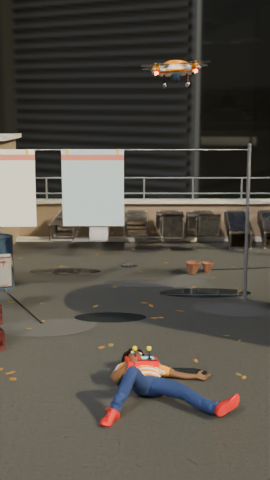
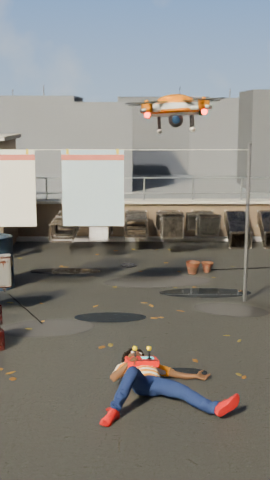
ep019: revisión Director PASA; listo para render local
Claude-Session: https://claude.ai/code/session_01LrSQNzCqj6aM3qn1tHEPiB

diff --git a/anim/episodes/ep019.py b/anim/episodes/ep019.py
@@ -27,7 +27,8 @@ CUSTOM_CAMERA = True
 LABEL_STYLE = "big"
 
 TANK = (3.0, 1.8)                  # centro del depósito de agua (radio 1,0; cara -x en x = 1,94)
-HOVER = Vector((0.15, 0.2, 2.8))   # el dron zumba aquí (centro del cuerpo)
+HOVER = Vector((0.15, 0.2, 2.4))   # el dron zumba aquí (centro del cuerpo)
+DS = 1.45                          # escala del dron: ~1 m de envergadura
 CW, CD, CH = 0.36, 0.07, 0.22      # mando: ancho, fondo, alto (m): exagerado (pedido ~25 x 15) para leerse en plano medio en vertical
 CAM_Y, CAM_Z, TGT_Z = -7.0, 3.1, 1.75     # plano medio: personaje ~34 % del alto, pies al ~17 %, cabeza al ~50 %
 
@@ -139,7 +140,7 @@ def audit_floor(S, a, tag, f0, f1, step=2):
 
 
 # ------------------------------------------------------------------ escenario
-def stage(S, N, gust=None, rot_deg=0):
+def stage(S, N, gust=None, rot_deg=90):
     """Azotea + sábanas ondeando (gust(f) -> 0..1 las agita) + zumbido continuo del dron."""
     E = env_real.build_rooftop(S, rot_deg=rot_deg, tank=TANK, focus=7.1)
     for f in range(1, N + 14, 2):
@@ -155,7 +156,7 @@ def build_drone(S):
     """Dron de primitivas (~70 cm): cuerpo blanco con cúpula naranja, 4 brazos, 4 hélices con disco difuminado, cámara, patines y luces."""
     wh = mmat(S, "dron_blanco", (0.95, 0.95, 0.93), 0.35); org = mmat(S, "dron_naranja", (1.0, 0.38, 0.02), 0.35); drk = mmat(S, "dron_gris", (0.07, 0.07, 0.08), 0.4, 0.3)
     disc = mmat(S, "dron_disco", (0.55, 0.58, 0.62), 0.6, alpha=0.22)
-    D_ = S.empty("dron", tuple(HOVER))
+    D_ = S.empty("dron", tuple(HOVER)); D_.scale = (DS, DS, DS)
     O(S, "cylinder", "d_cuerpo", wh, (0, 0, 0), (0.17, 0.17, 0.045), parent=D_, vertices=32)
     O(S, "uv_sphere", "d_cupula", org, (0, 0, 0.035), (0.15, 0.15, 0.075), parent=D_, segments=24, ring_count=12)
     O(S, "cylinder", "d_cinta", org, (0, 0, -0.012), (0.176, 0.176, 0.014), parent=D_, vertices=32)
@@ -424,7 +425,7 @@ def l3(S):
     S.f = N; a.verify(S.f)
     faces(a, [(1, "neutra", 1.0), (20, "enfado", 0.6), (f_h - 4, "enfado", 1.0), (f_h + 2, "sorpresa", 1.0)], N, first_blink=12, every=30)
     D_, props, leds = build_drone(S)
-    d0 = Vector((xf - 1.0, y0 - 0.3, 3.7))
+    d0 = Vector((xf - 1.0, y0 - 0.3, 3.3))
     def dpos(f):
         p = d0.copy(); p.x += 0.25 * math.sin(0.03 * f)
         t = (f - (f_h + 2)) / 20.0                                      # pica hasta casi rozarle la cabeza (apenas a un lado) y sube
@@ -468,13 +469,13 @@ def l4(S):
         """Punto de agarre en el mundo (centro del patín)."""
         k = sstep((f - f_dr) / float(f_r - f_dr)); k = min(1.0, max(0.0, k))
         x = lerp(x0, x_end, k) + (0.0); y = lerp(y0, y_end, k)
-        zlow = hl.z + 0.045
-        z = HOVER.z - 0.14 if f <= f_g - 3 else lerp(HOVER.z - 0.14, zlow, sstep((f - (f_g - 3)) / float(f_dr - f_g + 3)))
+        zlow = hl.z + 0.42
+        z = HOVER.z - 0.22 if f <= f_g - 3 else lerp(HOVER.z - 0.22, zlow, sstep((f - (f_g - 3)) / float(f_dr - f_g + 3)))
         if f > f_dr: z += 0.025 * math.sin(0.9 * (f - f_dr)) * (1 - sstep((f - f_r + 8) / 8.0))
         return Vector((x, y, z))
     def hang_M(f):
         env = sstep((f - f_dr) / 12.0) * (1 - sstep((f - f_r + 10) / 10.0))
-        th = -12.0 * env * (0.6 + 0.4 * math.sin(0.35 * (f - f_dr)))
+        th = -24.0 * env * (0.6 + 0.4 * math.sin(0.35 * (f - f_dr)))
         yaw = -10.0 + 12.0 * math.sin(0.22 * (f - f_dr)) * env
         return Tm(Gp(f)) @ Ry(th) @ Rz(yaw) @ Tm(-hl)
     def arc_h(f): return 0.62 * math.sin(0.5 * math.pi * max(0.0, min(1.0, (f + 6) / float(f_g + 6))))        # ya en el aire en el fotograma 1
@@ -488,9 +489,9 @@ def l4(S):
             key_M(S, a, f, Tm(A_.to_translation().lerp(B_.to_translation(), t)) @ q.to_matrix().to_4x4())
         elif f <= f_r: key_M(S, a, f, hang_M(f))
         else:
-            Mh = hang_M(f_r); pos = Mh.to_translation(); pos.z = 0.0
+            Mh = hang_M(f_r); pos = Mh.to_translation(); pos.z = max(0.0, pos.z * (1 - ((f - f_r) / 6.0) ** 2))
             key_M(S, a, f, Tm(pos) @ Rz(D(Mh.to_euler("XYZ").z)))
-    pin_feet(S, a, f_dr, N + 11, lambda f: 0.0)                         # arrastra los pies por el suelo (el clip sube la cadera) y luego de pie
+    pin_feet(S, a, f_r + 8, N + 11, lambda f: 0.0)                      # colgado con los pies en el aire (0,4 m); al soltar cae y se ríe
     sm = sample(S, a, N + 10)
     S.cue("huh", f_t - 4, vol=-8); S.cue("boing", f_t, vol=-8); S.cue("pop", f_g, vol=-6); S.cue("whoosh", f_g + 2, vol=-6); S.cue("slide_down", f_dr, vol=-9)
     for f in (f_dr + 10, f_dr + 24, f_dr + 38): S.cue("creak", f, vol=-12)
@@ -500,7 +501,7 @@ def l4(S):
     faces(a, [(1, "enfado", 0.6), (f_t, "feliz", 0.8), (f_g, "sorpresa", 0.7), (f_dr + 8, "sorpresa", 1.0), (f_r - 6, "neutra", 0.6), (f_r + 4, "feliz", 1.0)], N, first_blink=14, every=40)
     D_, props, leds = build_drone(S)
     def dpos(f):
-        g = Gp(f); p = g + Vector((-0.12, 0, 0.14))
+        g = Gp(f); p = g + Vector((-0.17, 0, 0.22))
         if f > f_r: p.z += 0.9 * sstep((f - f_r) / 22.0) + 0.0; p.x += -0.5 * sstep((f - f_r) / 22.0)
         return p
     def dtilt(f):
@@ -558,7 +559,7 @@ def l5(S):
           first_blink=18, every=48)
     D_, props, leds = build_drone(S)
     hov = HOVER.copy(); hov.x = 0.1
-    def hands(f): return (sm[f]["rh"] + sm[f]["lh"]) * 0.5 + Vector((0, 0, 0.17))
+    def hands(f): return (sm[f]["rh"] + sm[f]["lh"]) * 0.5 + Vector((0, 0, 0.25))
     def dpos(f):
         p = hov.copy(); p.x += 0.3 * math.sin(0.025 * f)
         if f_press <= f < f_up:

diff --git a/anim/env_real.py b/anim/env_real.py
@@ -270,7 +270,7 @@ ROOFTOP_PROPS = [
 ]
 
 
-def build_rooftop(S, rot_deg=0, sun_energy=2.2, tank=(3.0, 1.8), focus=7.2):
+def build_rooftop(S, rot_deg=90, sun_energy=3.0, tank=(3.0, 1.8), focus=7.2):
     """Azotea urbana muy producida: HDRI rooftop_day, suelo de hormigón desgastado PBR (losa finita con parapeto y barandilla), 15 piezas de
     atrezo de Poly Haven (CC0) en primer plano, medio y fondo, depósito de agua de madera de primitivas (con escalera de peldaños en su cara
     -x, para trepar), caseta de acceso, antenas, tendedero con sábanas, charcos, hojas, sumidero y parches de brea; profundidad por DOF.
@@ -280,12 +280,35 @@ def build_rooftop(S, rot_deg=0, sun_energy=2.2, tank=(3.0, 1.8), focus=7.2):
         if o.name.startswith("sun") or o is S.cam or o is S.tgt: continue
         bpy.data.objects.remove(o, do_unlink=True)
     _hdri(S, name="rooftop_day", strength=1.0, rot_deg=rot_deg)
+    # el HDRI es un aparcamiento nublado: la luz y los reflejos son suyos, pero a la cámara se le muestra un cielo azul de día (cúpula que solo
+    # existe para los rayos de cámara), un skyline de edificios lejanos (primitivas) y el vacío de la calle bajo el parapeto
+    sk = bpy.data.materials.new("az_cielo"); sk.use_nodes = True; nt = sk.node_tree; N_, L_ = nt.nodes, nt.links
+    for n_ in list(N_): N_.remove(n_)
+    out = N_.new("ShaderNodeOutputMaterial"); mix = N_.new("ShaderNodeMixShader"); tr = N_.new("ShaderNodeBsdfTransparent"); em = N_.new("ShaderNodeEmission")
+    tc = N_.new("ShaderNodeTexCoord"); sp = N_.new("ShaderNodeSeparateXYZ"); L_.new(tc.outputs["Object"], sp.inputs[0])
+    gz = N_.new("ShaderNodeMapRange"); gz.inputs[1].default_value = 0.0; gz.inputs[2].default_value = 0.30; L_.new(sp.outputs["Z"], gz.inputs[0])
+    rp = N_.new("ShaderNodeValToRGB"); rp.color_ramp.elements[0].color = (0.62, 0.80, 1.0, 1); rp.color_ramp.elements[1].color = (0.10, 0.38, 0.95, 1); L_.new(gz.outputs[0], rp.inputs[0])
+    nz = N_.new("ShaderNodeTexNoise"); nz.inputs["Scale"].default_value = 3.5; nz.inputs["Detail"].default_value = 5.0; L_.new(tc.outputs["Object"], nz.inputs["Vector"])
+    cr = N_.new("ShaderNodeValToRGB"); cr.color_ramp.elements[0].position = 0.52; cr.color_ramp.elements[1].position = 0.68; L_.new(nz.outputs["Fac"], cr.inputs[0])
+    cm = N_.new("ShaderNodeMix"); cm.data_type = "RGBA"; cm.inputs[7].default_value = (1, 1, 1, 1); L_.new(cr.outputs["Color"], cm.inputs[0]); L_.new(rp.outputs["Color"], cm.inputs[6])
+    L_.new(cm.outputs[2], em.inputs["Color"]); em.inputs["Strength"].default_value = 0.9
+    mk = N_.new("ShaderNodeMapRange"); mk.inputs[1].default_value = -0.01; mk.inputs[2].default_value = 0.0; L_.new(sp.outputs["Z"], mk.inputs[0])
+    lp = N_.new("ShaderNodeLightPath"); ml = N_.new("ShaderNodeMath"); ml.operation = "MULTIPLY"; L_.new(mk.outputs[0], ml.inputs[0]); L_.new(lp.outputs["Is Camera Ray"], ml.inputs[1])
+    L_.new(ml.outputs[0], mix.inputs[0]); L_.new(tr.outputs[0], mix.inputs[1]); L_.new(em.outputs[0], mix.inputs[2]); L_.new(mix.outputs[0], out.inputs[0])
+    dome = _prim(S, "uv_sphere", "cielo", sk, (0, 0, 0), (1500, 1500, 1500), segments=48, ring_count=24, smooth=True)
+    rnd0 = _r.Random(5)
+    for k in range(40):                                                       # skyline lejano (copas entre 4 y 11 m sobre la azotea: el cielo queda libre)
+        x = -330 + k * 16.0 + rnd0.uniform(-5, 5); y = rnd0.uniform(130, 230); w = rnd0.uniform(14, 30); dpt = rnd0.uniform(14, 28); top = rnd0.uniform(3.0, 9.0)
+        c = rnd0.uniform(0.20, 0.30); hz = _mat_simple(S, f"edif{k % 5}", (c * 0.92, c * 0.97, min(1.0, c * 1.10)), 0.9)
+        _prim(S, "cube", "edificio", hz, (x, y, (top - 15.0) / 2), (w / 2, dpt / 2, (top + 15.0) / 2), smooth=False)
+        if rnd0.random() < 0.5: _prim(S, "cylinder", "edificio_antena", hz, (x + w * 0.2, y, top + 1.5), (0.15, 0.15, 1.5), vertices=6)
+    _prim(S, "cube", "calle_lejos", _mat_simple(S, "calle_lejos", (0.30, 0.32, 0.34), 0.9), (0, 600, -15.2), (1500, 1200, 0.2), smooth=False)
     sun = bpy.data.objects["sun"]; sun.data.energy = sun_energy; sun.data.color = (1.0, 0.95, 0.86); sun.data.angle = math.radians(2.0)
     sun.rotation_euler = (math.radians(48), 0, math.radians(-30))
     S.sc.view_settings.view_transform = "AgX"
     try: S.sc.view_settings.look = "AgX - Base Contrast"; S.sc.view_settings.exposure = 0.0
     except Exception: pass
-    S.cam.data.dof.use_dof = True; S.cam.data.dof.aperture_fstop = 2.2; S.cam.data.dof.focus_distance = focus; S.water = None
+    S.cam.data.dof.use_dof = True; S.cam.data.dof.aperture_fstop = 2.2; S.cam.data.dof.focus_distance = focus; S.water = None; S.cam.data.clip_end = 4000
     # ---- suelo: losa de 18 x 19 m con UV en metros (la textura se repite cada 2 m)
     conc = _pbr(S, "concrete_floor_worn_001", res="1k", scale=1.0)
     bpy.ops.mesh.primitive_plane_add(size=1, location=(0, 0.25, 0)); g = bpy.context.object; g.name = "azotea_suelo"

diff --git a/stories/story-022/reviews/anim-check.md b/stories/story-022/reviews/anim-check.md
@@ -37,3 +37,9 @@ Mando: caja roja 36x22 cm (algo mayor que los 25x15 pedidos, para leerse en vert
 ## Pendiente
 - ISSUES: no hay un sonido de zumbido de dron con tono por nivel en audio_gen.py (se usa un cue "whoosh" repetido cada 9 fotogramas a -20 dB). Responsable: sound-designer / audio_gen.
 - No se probó el render completo ni el montaje (render_episode.py), solo fotogramas sueltos.
+
+## Ronda 2 (revisión del Director: azotea, dron, arrastre) — 21 fotogramas re-renderizados y vistos
+- Fondo: la pared de lamas era el HDRI (aparcamiento nublado). HDRI girado a 90 grados (solo luz y reflejos) y, para la cámara, cúpula de cielo azul de día con nubes (solo rayos de cámara), skyline de 40 edificios lejanos de primitivas (copas 3-9 m, el cielo queda libre), calle lejana bajo el parapeto, sol 3,0. En todos los planos se ve ahora barandilla, ciudad al fondo y cielo azul.
+- Dron: escala 1,45 (~1 m de envergadura) y vuelo a 2,4 m (antes 2,8): se ve con las 4 hélices, la cámara y las luces en todos los niveles; en el nivel 5 queda sobre las manos y la cabeza al ~60 %.
+- Nivel 4: ahora cuelga del patín con los pies a ~0,4 m del suelo y balanceo de -24 grados mientras el dron lo arrastra; al soltar cae y se ríe (n4_b2, n4_b3).
+- Límite: el skyline es una silueta gris de bloques (sin ventanas); el cielo cubre solo ~15 % superior en plano medio.

diff --git a/stories/story-022/reviews/director-visual.md b/stories/story-022/reviews/director-visual.md
@@ -7,3 +7,9 @@ Hoja: scratchpad/ep019_sheet.jpg (21 fotogramas).
 1. **No parece una azotea.** El fondo es una pared enorme oscura de lamas (ocupa la mitad superior en casi todos los planos): el vídeo queda lúgubre y no se ve cielo ni ciudad. Gira la cámara/HDRI o quita/aleja esa estructura para que detrás de la barandilla se vea el SKYLINE de rooftop_day y cielo claro. Luz de día cálida. La azotea debe leerse en 1 s (barandilla + ciudad al fondo + cielo).
 2. **Dron demasiado pequeño** en n1-n3 (un punto naranja arriba). Hazlo más grande (~1 m de envergadura) y que vuele más bajo (~2,3-2,6 m) para que ocupe más pantalla; mantén las hélices visibles.
 3. Menor: n4 arrastre poco claro (se ve de pie); que se vea al hombre colgado/arrastrado con los pies separados del suelo.
+
+# Ronda 2: PASA
+- Cielo azul con nubes, barandilla y edificios al fondo: se lee "azotea". Sin pared oscura.
+- Dron ~1 m a 2,4 m, hélices visibles: legible en todos los niveles. Mando rojo siempre visible.
+- Nivel 4: colgado con los pies en el aire. Remate n5 en primer plano, cara ~60 %.
+- Aviso menor: skyline gris sin ventanas (aceptable a esta distancia y con desenfoque).
